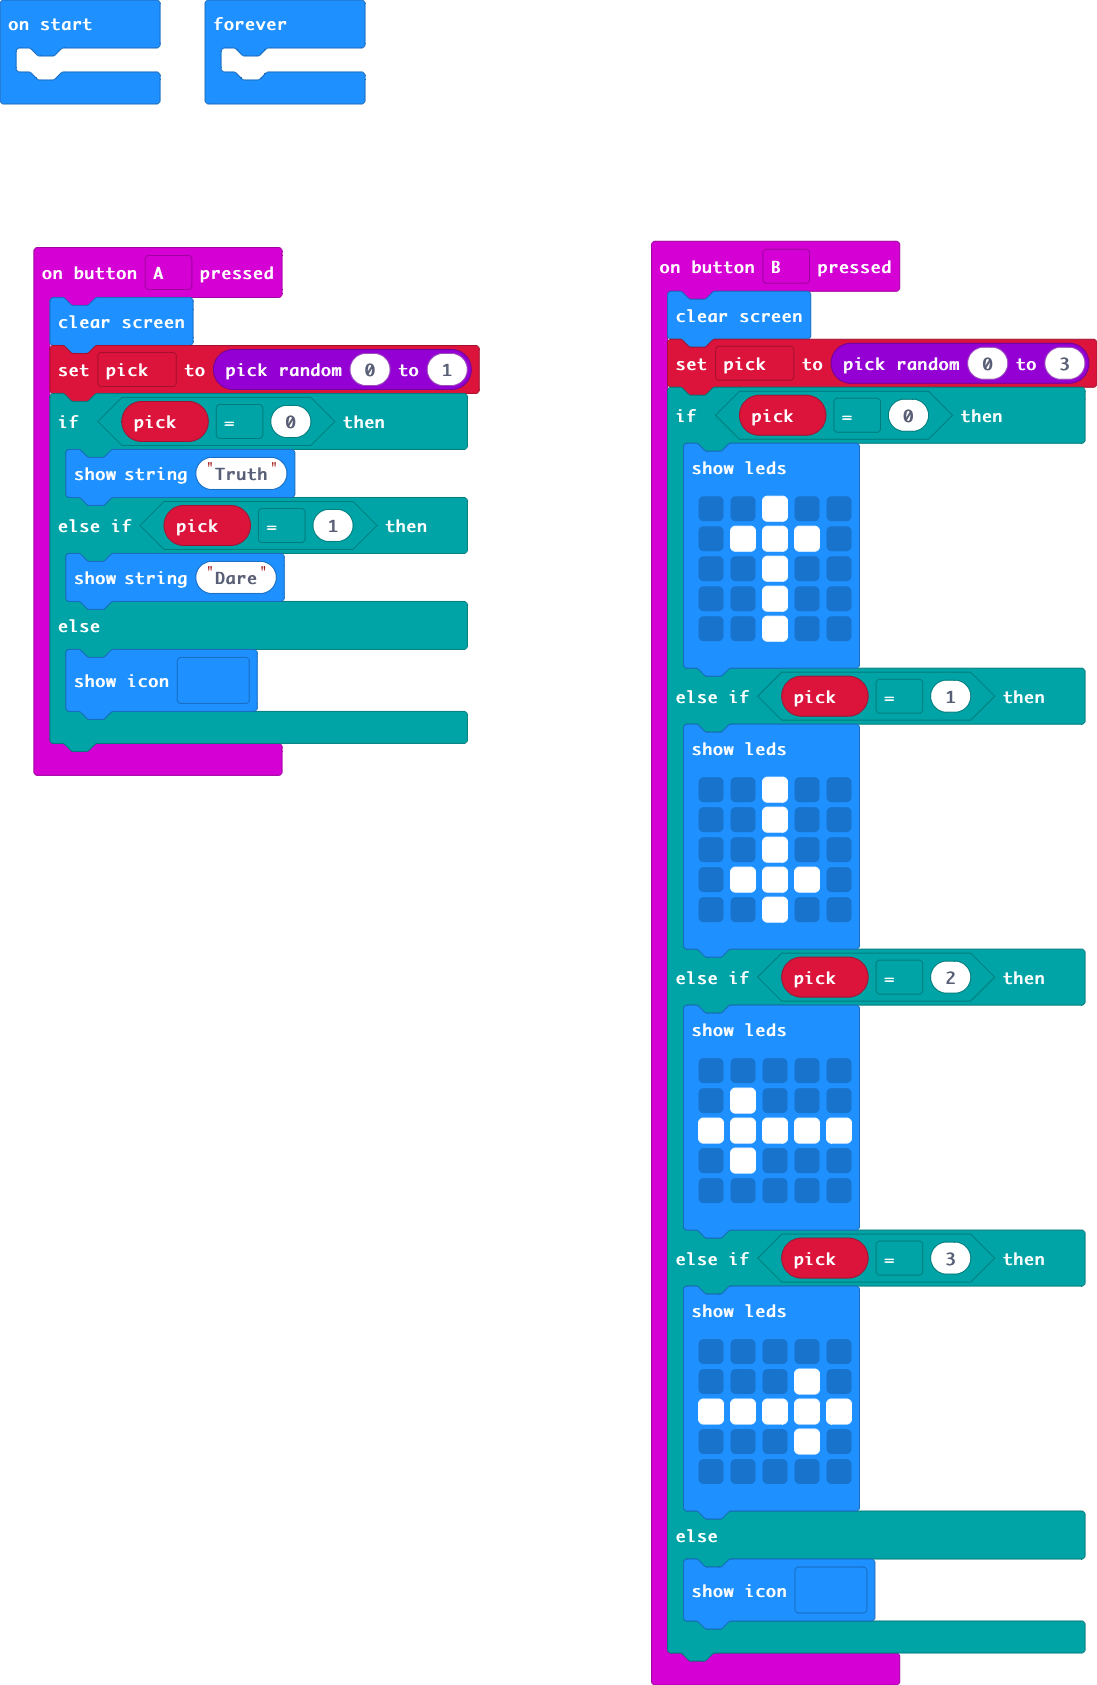
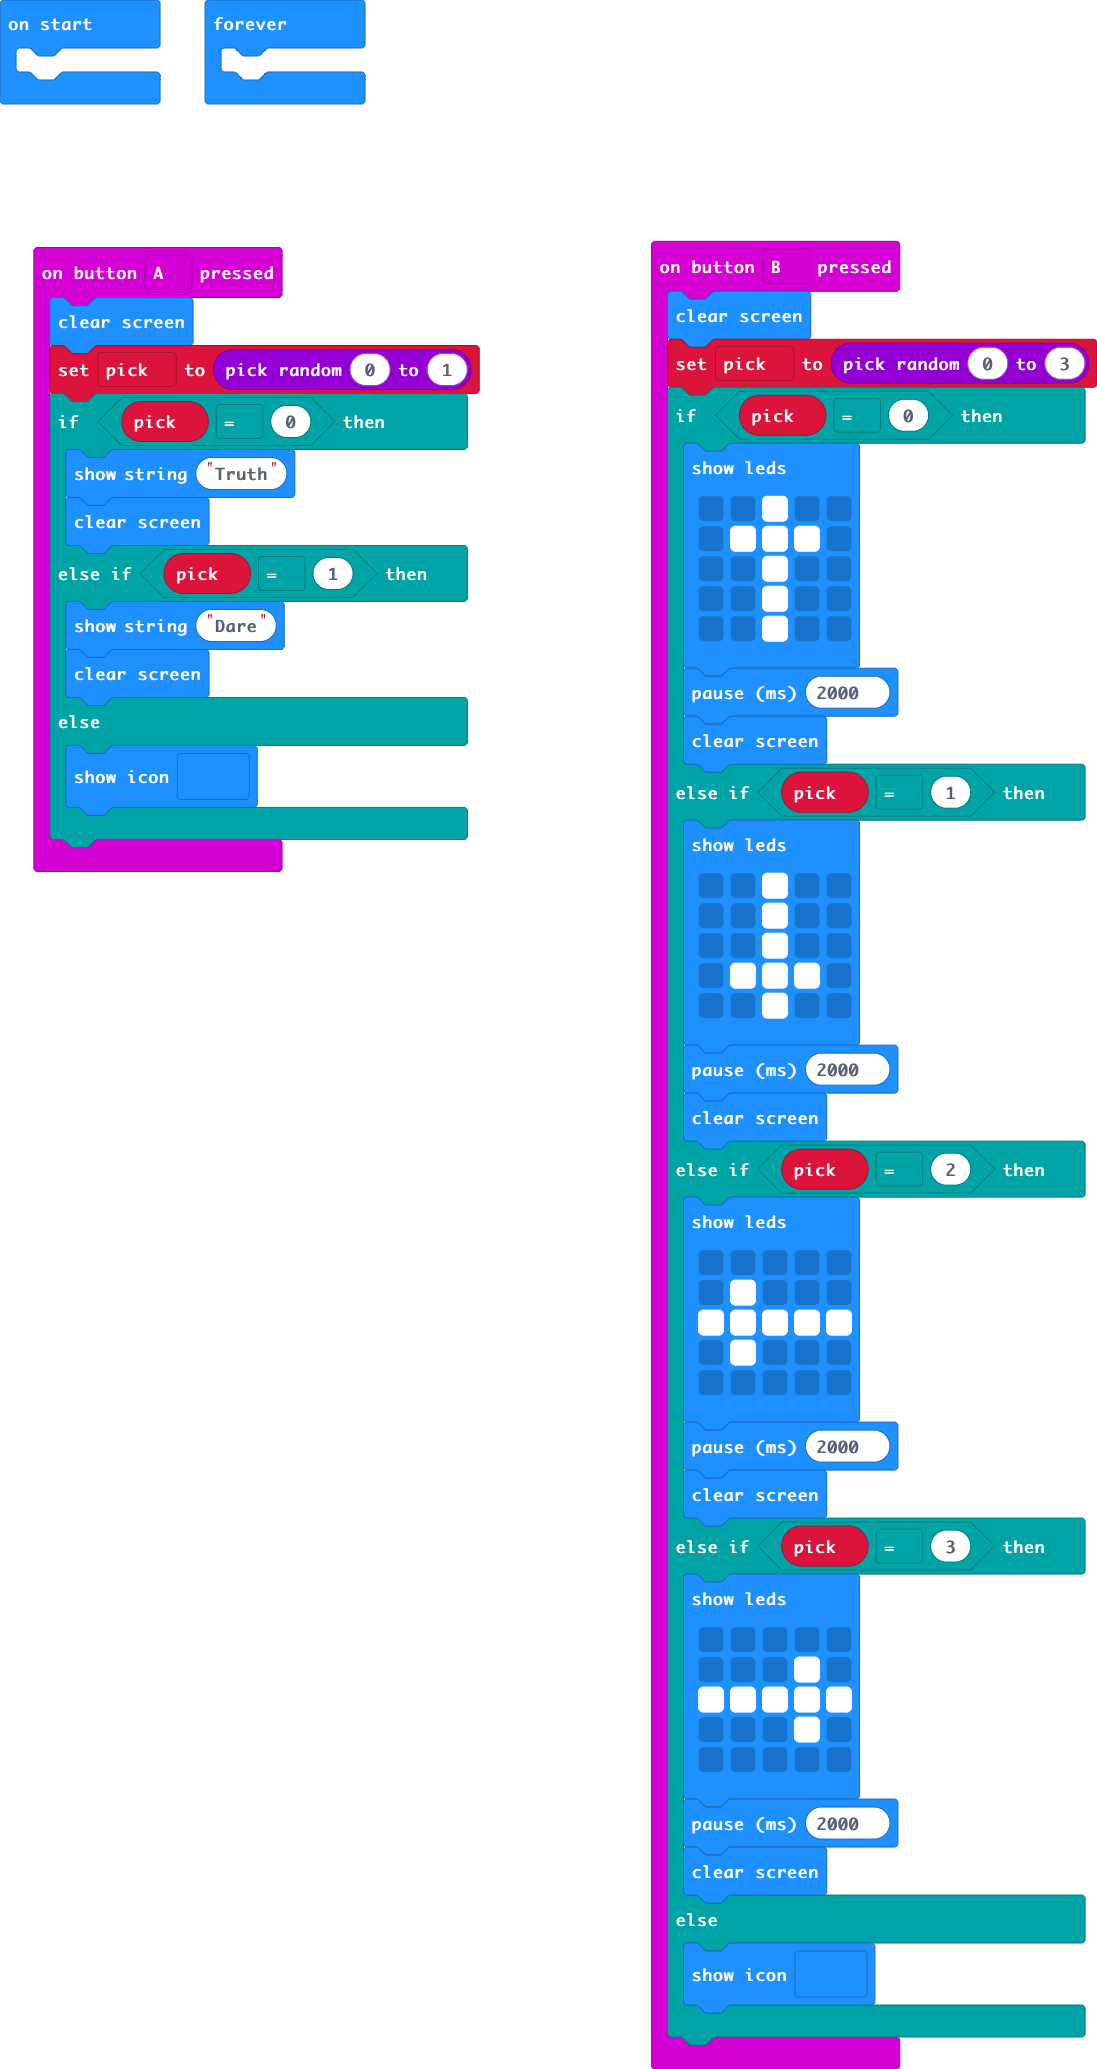
Update main.blocks, main.ts

diff --git a/main.ts b/main.ts
@@ -4,8 +4,10 @@ input.onButtonPressed(Button.A, function () {
     pick = randint(0, 1)
     if (pick == 0) {
         basic.showString("Truth")
+        basic.clearScreen()
     } else if (pick == 1) {
         basic.showString("Dare")
+        basic.clearScreen()
     } else {
         basic.showIcon(IconNames.No)
     }
@@ -21,6 +23,8 @@ input.onButtonPressed(Button.B, function () {
             . . # . .
             . . # . .
             `)
+        basic.pause(2000)
+        basic.clearScreen()
     } else if (pick == 1) {
         basic.showLeds(`
             . . # . .
@@ -29,6 +33,8 @@ input.onButtonPressed(Button.B, function () {
             . # # # .
             . . # . .
             `)
+        basic.pause(2000)
+        basic.clearScreen()
     } else if (pick == 2) {
         basic.showLeds(`
             . . . . .
@@ -37,6 +43,8 @@ input.onButtonPressed(Button.B, function () {
             . # . . .
             . . . . .
             `)
+        basic.pause(2000)
+        basic.clearScreen()
     } else if (pick == 3) {
         basic.showLeds(`
             . . . . .
@@ -45,6 +53,8 @@ input.onButtonPressed(Button.B, function () {
             . . . # .
             . . . . .
             `)
+        basic.pause(2000)
+        basic.clearScreen()
     } else {
         basic.showIcon(IconNames.No)
     }
